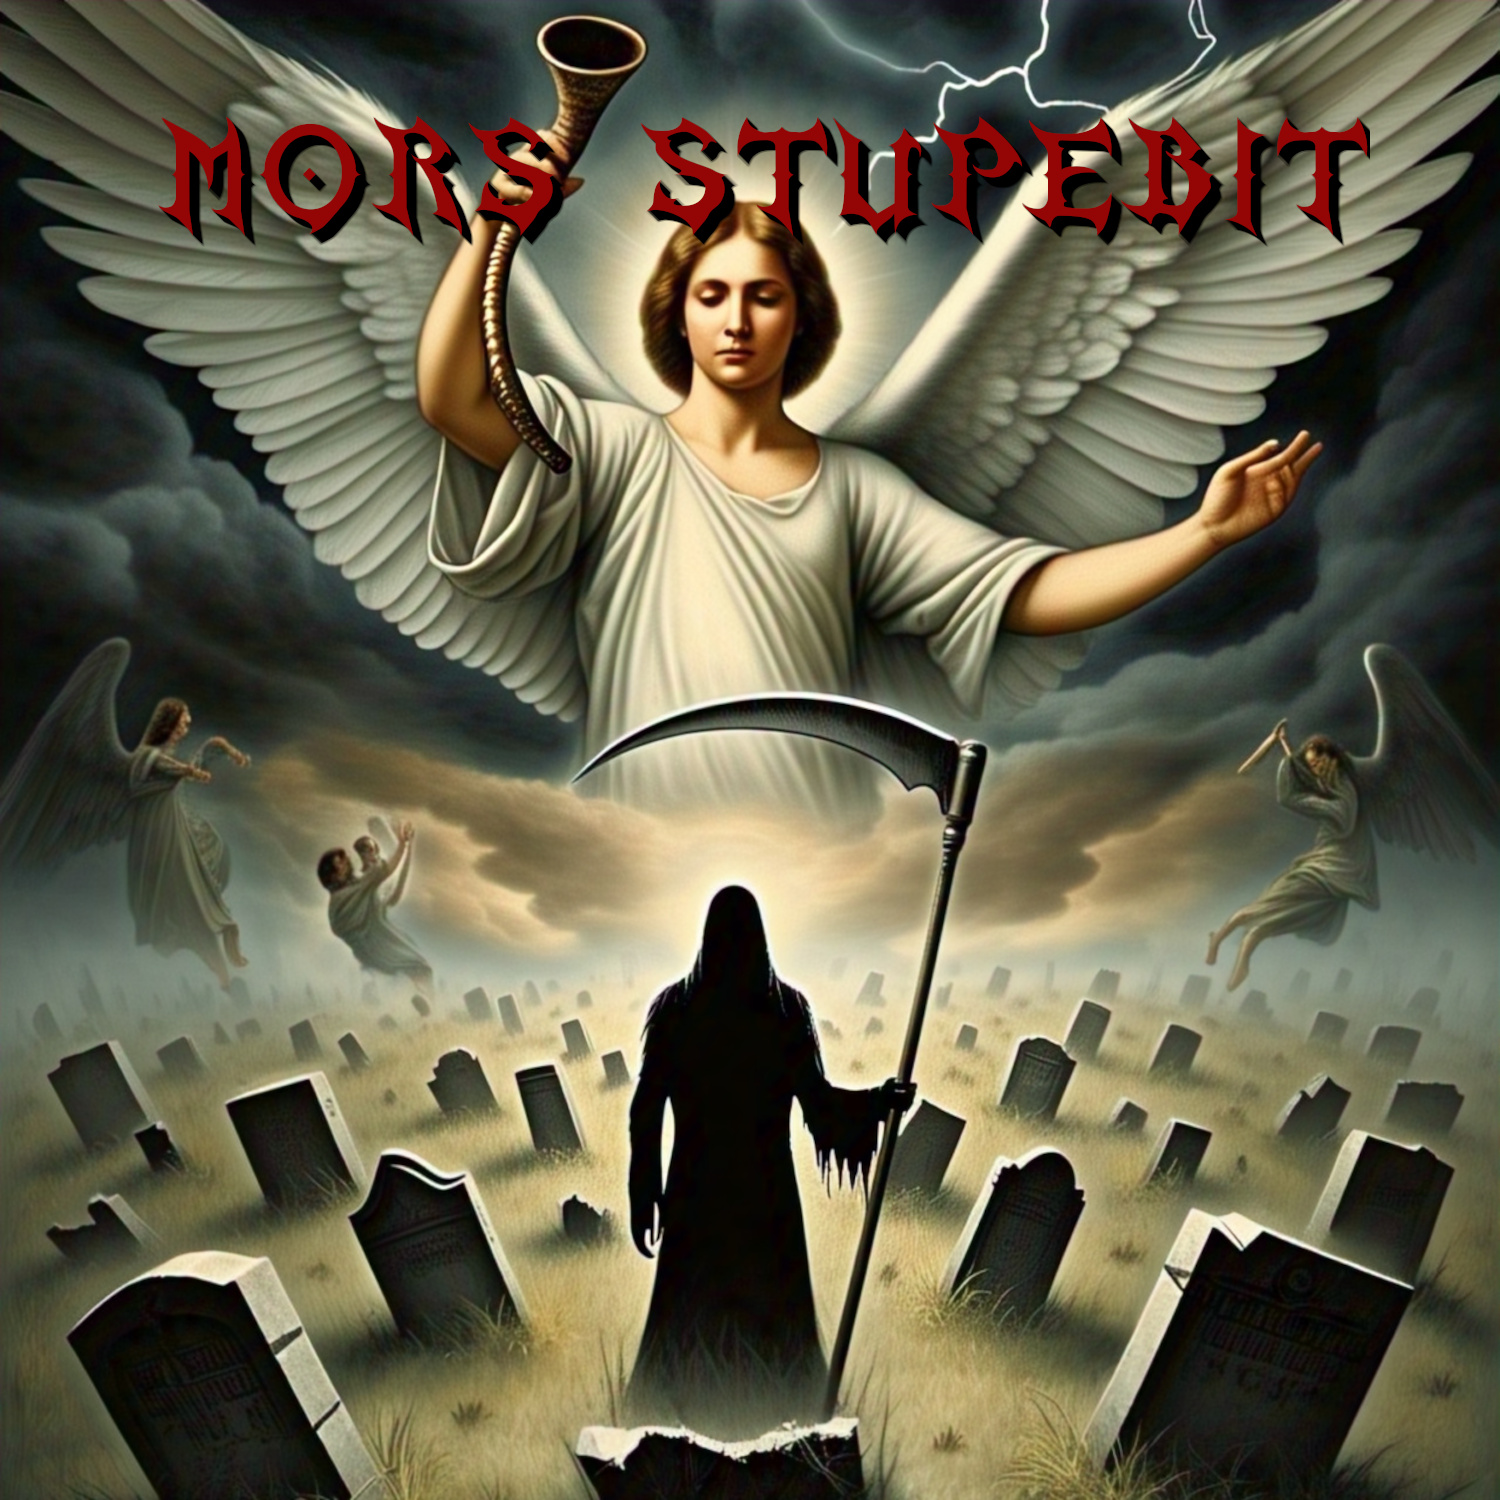
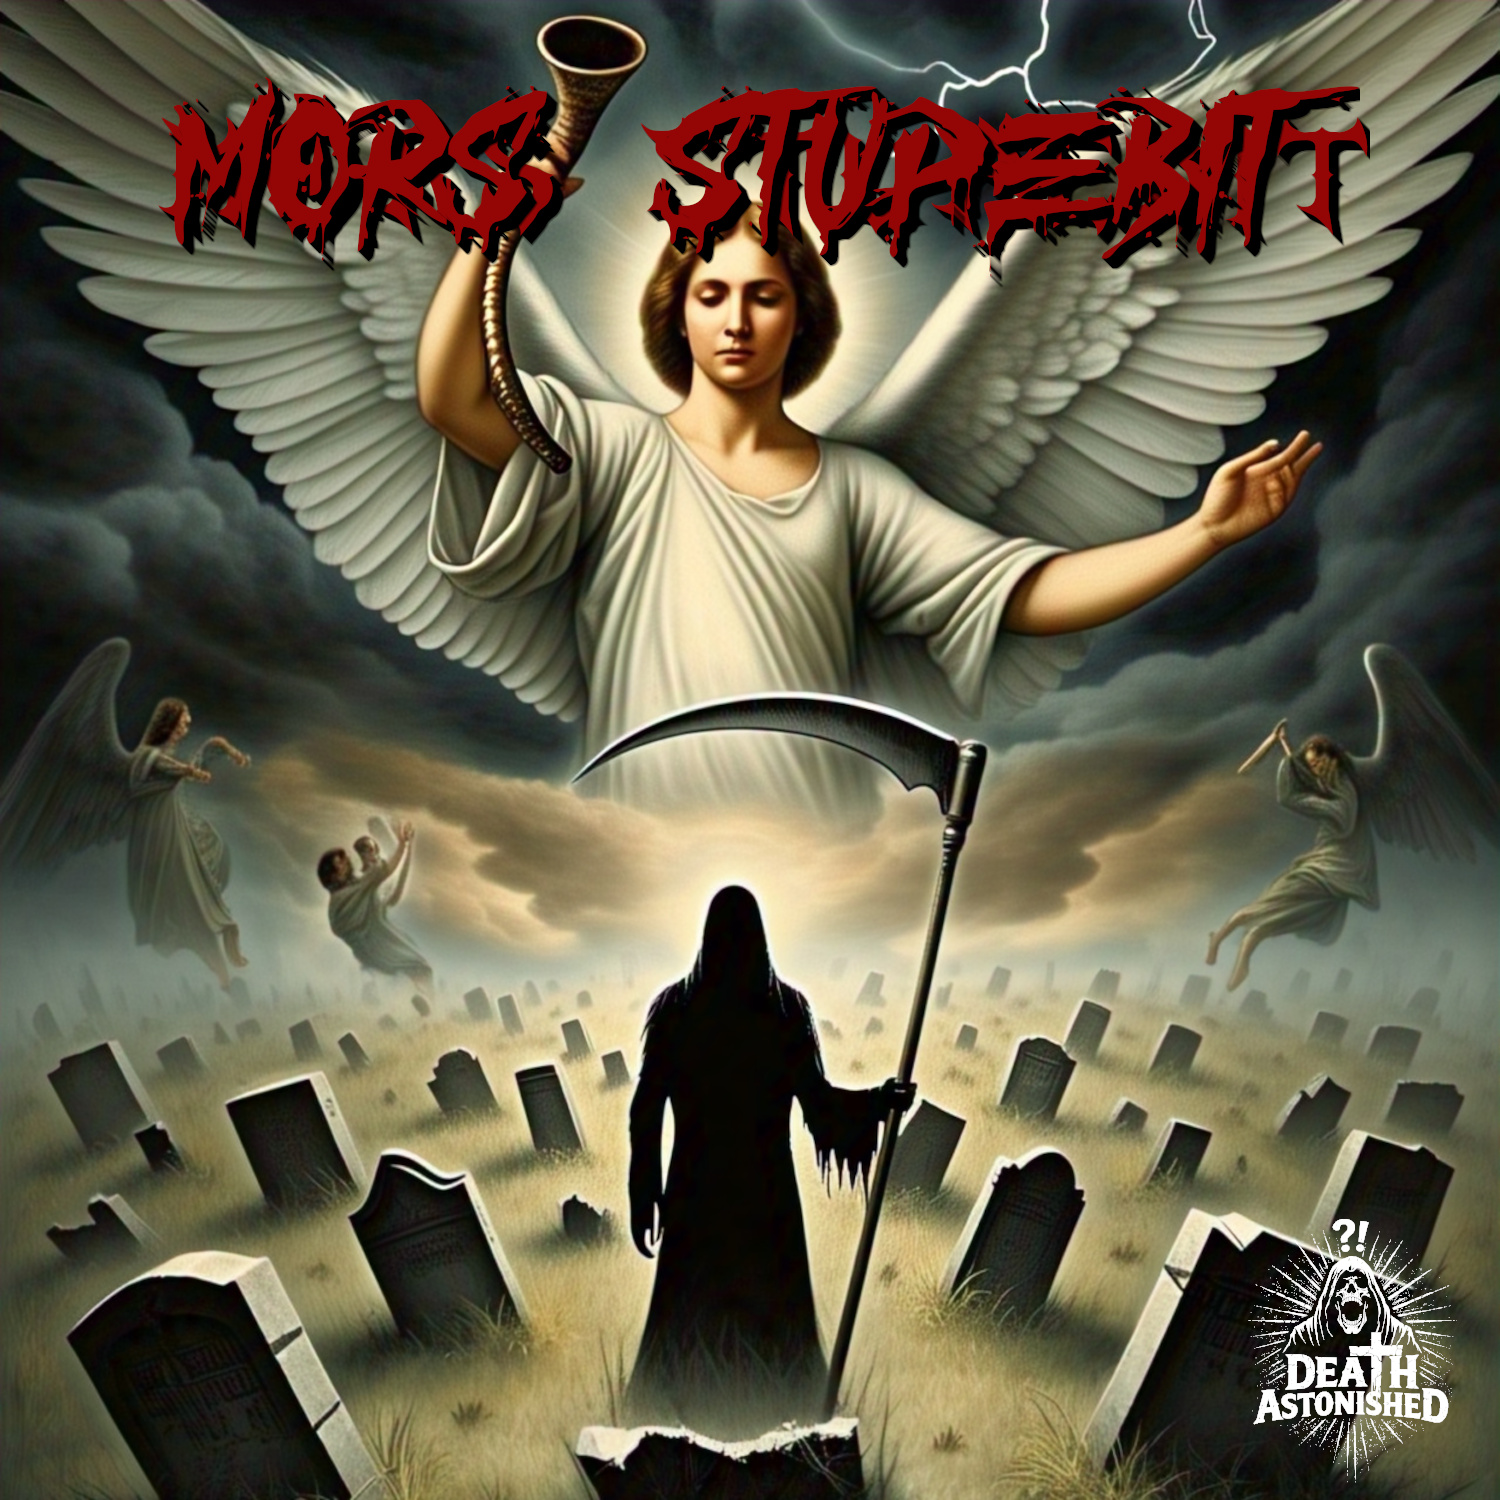
mors stupebit rename artist

Changed region(s): [[0.4293, 0.0613, 0.92, 0.184], [0.1227, 0.0613, 0.368, 0.184], [0.828, 0.7973, 0.9813, 0.9813]]

diff --git a/_albums/mors-stupebit.md b/_albums/mors-stupebit.md
@@ -3,7 +3,7 @@ layout: album
 title: "Mors Stupebit"
 slug: mors-stupebit
 project: solo-works
-artist: "Bill Crossley"
+artist: "Death Astonished"
 cover: /assets/img/mors-stupebit.jpg
 release_date: 2025-09-28
 og_image: /assets/img/mors-stupebit.jpg
@@ -17,9 +17,6 @@ download_links:
   - label: "Download MP3"
     comment: "320kbps high quality. Most compatible."
     url: https://mega.nz/file/dUYAxDYB#meve7m3t4ikkld_P2U-XwLmmqQkCPct969ufoNW-0G8
-  - label: "Download M4A"
-    comment: "Apple AAC files. Smallest files size."
-    url: https://mega.nz/file/AJYlHLiI#PttYKcyB21m9He3hnBYjXEwtcNBDSR9sB1ed2IdQBSI
   - label: "Download FLAC"
     comment: "Lossless for audiophiles. Largest file size."
     url: https://mega.nz/file/AdQFRB6R#HJ6RCctUy8NXV57EZMCYc03aKPBjFeG64HW6WKiDVps

diff --git a/_tracks/09-bones-ez-37.md b/_tracks/09-bones-ez-37.md
@@ -4,7 +4,7 @@ title: "Bones (Ez. 37)"
 slug: 09-bones-ez-37
 album: mors-stupebit
 album_title: "Mors Stupebit"
-artist: "Bill Crossley"
+artist: "Death Astonished"
 track_number: 9
 notes: "The AI got a major upgrade recently, and since then, I have been able to experiment more with much more detailed prompts. I can now do things like specify instruments and tonal scales, etc.. So I ran with it and asked it to make me some metal using traditional Middle Eastern instruments, scales, and rhythms. This is my first result. It's ridiculously long, probably boring, etc. But it has this great dark desert feel to it that really gets under your skin, while also conjuring images of early to mid-1970s prog rock and early heavy metal. Give it a chance. It'll grow on you."
 embed_html: |

diff --git a/_tracks/15-shout-ps-100.md b/_tracks/15-shout-ps-100.md
@@ -4,7 +4,7 @@ title: "Shout (Ps. 100)"
 slug: 15-shout-ps-100
 album: mors-stupebit
 album_title: "Mors Stupebit"
-artist: "Bill Crossley"
+artist: "Death Astonished"
 track_number: 15
 notes: |
   <p>Honestly, I was never much of a fan of Ozzy Osbourne or Black Sabbath. I didn't get into heavy metal until after my conversion to Christianity, and my first exposure to the genre consisted entirely of Christian bands like Deliverance, Stryper, Believer, Mortification, Saviour Machine, etc. I still don't listen to secular metal - at least not on purpose, and definitely not on a regular basis. There's plenty of really good Christian stuff out there, so I don't really feel the need to entertain the secular stuff.</p>

diff --git a/_tracks/06-rida-rida-ranka.md b/_tracks/06-rida-rida-ranka.md
@@ -4,7 +4,7 @@ title: "Rida Rida Ranka"
 slug: 06-rida-rida-ranka
 album: mors-stupebit
 album_title: "Mors Stupebit"
-artist: "Bill Crossley"
+artist: "Death Astonished"
 track_number: 6
 notes: |
   <p>This is a Scandinavian nursery rhyme that my Swedish great-grandfather used to sing to my mom when she was a baby. It's typically sung while the child is joyfully bounced on the singer's lap, as if riding a horse. We used to have a recording of Grandpa Rudy speaking some of the words, but it unfortunately degraded over time and wasn't intelligible by the time I got my hands on it. The spoken intro is my attempt to replicate it.</p>

diff --git a/_tracks/08-day-by-day-redeemer-cover.md b/_tracks/08-day-by-day-redeemer-cover.md
@@ -4,7 +4,7 @@ title: "Day By Day (Redeemer Cover)"
 slug: 08-day-by-day-redeemer-cover
 album: mors-stupebit
 album_title: "Mors Stupebit"
-artist: "Bill Crossley"
+artist: "Death Astonished"
 track_number: 8
 notes: |
   <p>Day By Day was a fun little song we used to sing back in the Redeemer days. It never made it onto a recording, never got written down, and was played live maybe 3 or 4 times. I had wanted to include it on my first Redeemer Project album, but not a single one of us could remember enough of the lyrics.</p>

diff --git a/_tracks/07-let-it-be-north-60-cover.md b/_tracks/07-let-it-be-north-60-cover.md
@@ -4,7 +4,7 @@ title: "Let it Be (North 60 Cover)"
 slug: 07-let-it-be-north-60-cover
 album: mors-stupebit
 album_title: "Mors Stupebit"
-artist: "Bill Crossley"
+artist: "Death Astonished"
 track_number: 7
 notes: |
   <p>The North 60 is a great little local project/band headed by Jim MacDonald, a friend of ours from the Redeemer days. This cover is very true to the original and is used here with explicit permission from Jim. I take no credit for any of this other than for seeing what the AI could do with it.</p>

diff --git a/_tracks/10-halleluyah-ps-150.md b/_tracks/10-halleluyah-ps-150.md
@@ -4,7 +4,7 @@ title: "Halleluyah (Ps. 150)"
 slug: 10-halleluyah-ps-150
 album: mors-stupebit
 album_title: "Mors Stupebit"
-artist: "Bill Crossley"
+artist: "Death Astonished"
 track_number: 10
 notes: "This track is taken directly from Psalm 150 in its (more or less) original Hebrew text. I did arrange some of the Halleluyahs to make for a more modern structure and flow. For this, I wanted traditional Middle Eastern instruments and scales, but with a modern metal twist. I think it came out great."
 embed_html: |

diff --git a/_tracks/16-whispers-in-the-dark.md b/_tracks/16-whispers-in-the-dark.md
@@ -4,7 +4,7 @@ title: "Whispers in the Dark"
 slug: 16-whispers-in-the-dark
 album: mors-stupebit
 album_title: "Mors Stupebit"
-artist: "Bill Crossley"
+artist: "Death Astonished"
 track_number: 16
 notes: |
   <p>Everyone, if they've lived and loved enough, has a story like this. Maybe it was a first love, maybe it was a friendship where you wanted more and the other person didn't, or maybe both of you were too scared to make a move, and for whatever reason, it never happened.</p>

diff --git a/_tracks/02-death-astonished.md b/_tracks/02-death-astonished.md
@@ -4,7 +4,7 @@ title: "Death Astonished"
 slug: 02-death-astonished
 album: mors-stupebit
 album_title: "Mors Stupebit"
-artist: "Bill Crossley"
+artist: "Death Astonished"
 track_number: 2
 notes: |
   <p>This is actually the first track I made for this album. It was inspired entirely by a single phrase from Requiem Ex Mortis: 'mors stupebit et natura', meaning 'death and nature shall be astonished'. I took that image and ran with it in the lyrics.</p>

diff --git a/_tracks/17-she-is-my-peace.md b/_tracks/17-she-is-my-peace.md
@@ -4,7 +4,7 @@ title: "She Is My Peace"
 slug: 17-she-is-my-peace
 album: mors-stupebit
 album_title: "Mors Stupebit"
-artist: "Bill Crossley"
+artist: "Death Astonished"
 track_number: 17
 notes: |
   <p>Every so often, I wake up from a nightmare - usually about something horrible happening, or losing everything that's ever mattered to me. Sometimes they're sad. Sometimes they're frightening. Sometimes I wake up feeling completely lost and alone.</p>

diff --git a/_tracks/04-ad-lumen-dei.md b/_tracks/04-ad-lumen-dei.md
@@ -4,7 +4,7 @@ title: "Ad Lumen Dei"
 slug: 04-ad-lumen-dei
 album: mors-stupebit
 album_title: "Mors Stupebit"
-artist: "Bill Crossley"
+artist: "Death Astonished"
 track_number: 4
 notes: "I really like the ethereal combination of Gregorian chant and metal that came together for this track. Of course, it's in Latin because you know I can't resist writing songs in foreign languages."
 embed_html: |

diff --git a/_tracks/05-questions.md b/_tracks/05-questions.md
@@ -4,7 +4,7 @@ title: "Questions"
 slug: 05-questions
 album: mors-stupebit
 album_title: "Mors Stupebit"
-artist: "Bill Crossley"
+artist: "Death Astonished"
 track_number: 5
 notes: |
   <p>It's ok to ask questions. Everyone has them. God would rather you ask questions, complain, even get angry and yell at him - all are much more preferable to him than for you to stop talking to him at all.</p>
